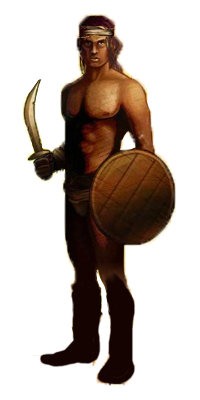
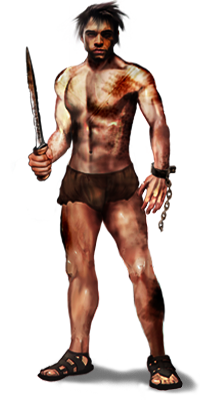
new char models

diff --git a/src/data/opponentData.js b/src/data/opponentData.js
@@ -5,7 +5,7 @@ const opponentData = [
     id: 0,
     styleName: 'opponent1',
     battleTitle: 'BATTLE 1',
-    name: 'Slave',
+    name: 'Deserter',
     level: 1,
     hp: 30,
     headAC: 8,
@@ -16,8 +16,8 @@ const opponentData = [
     legsModifier: 1.0,
     expVal: 50,
     maxDmg: 8,
-    dmgBonus: 1,
-    toHitBonus: 2,
+    dmgBonus: 2,
+    toHitBonus: 3,
     attackSpeed: 1000,
     baseAtkSpeed: 1000,
     weapons: 'Rusty Sword',
@@ -42,8 +42,8 @@ const opponentData = [
     legsModifier: 1.0,
     expVal: 175,
     maxDmg: 9,
-    dmgBonus: 1,
-    toHitBonus: 2,
+    dmgBonus: 2,
+    toHitBonus: 3,
     attackSpeed: 950,
     baseAtkSpeed: 950,
     weapons: 'Gladius',
@@ -66,9 +66,9 @@ const opponentData = [
     bodyModifier: 1.0,
     legsModifier: 1.0,
     expVal: 400,
-    maxDmg: 9,
-    dmgBonus: 2,
-    toHitBonus: 2,
+    maxDmg: 10,
+    dmgBonus: 3,
+    toHitBonus: 3,
     attackSpeed: 900,
     baseAtkSpeed: 900,
     weapons: 'Gladius',
@@ -91,9 +91,9 @@ const opponentData = [
     bodyModifier: 1.0,
     legsModifier: 1.0,
     expVal: 700,
-    maxDmg: 10,
-    dmgBonus: 3,
-    toHitBonus: 3,
+    maxDmg: 11,
+    dmgBonus: 4,
+    toHitBonus: 4,
     attackSpeed: 850,
     baseAtkSpeed: 850,
     weapons: 'Gladius',
@@ -106,19 +106,19 @@ const opponentData = [
     id: 4,
     styleName: 'opponent5',
     battleTitle: 'BATTLE 5',
-    name: 'Seasoned Fighter',
+    name: 'Deadly Murmillo',
     level: 5,
-    hp: 90,
-    headAC: 12,
-    bodyAC: 12,
-    legsAC: 12,
-    headModifier: 1.0,
-    bodyModifier: 1.0,
-    legsModifier: 1.0,
+    hp: 101,
+    headAC: 6,
+    bodyAC: 5,
+    legsAC: 11,
+    headModifier: 0.3,
+    bodyModifier: 0.2,
+    legsModifier: 1.3,
     expVal: 1100,
-    maxDmg: 10,
-    dmgBonus: 3,
-    toHitBonus: 4,
+    maxDmg: 12,
+    dmgBonus: 5,
+    toHitBonus: 2,
     attackSpeed: 800,
     baseAtkSpeed: 800,
     weapons: 'Gladius',
@@ -131,7 +131,7 @@ const opponentData = [
     id: 5,
     styleName: 'opponent6',
     battleTitle: 'BATTLE 6',
-    name: 'Deadly Murmillo',
+    name: 'Seasoned Champion',
     level: 6,
     hp: 99,
     headAC: 13,
@@ -141,9 +141,9 @@ const opponentData = [
     bodyModifier: 1.0,
     legsModifier: 1.0,
     expVal: 1400,
-    maxDmg: 10,
-    dmgBonus: 4,
-    toHitBonus: 4,
+    maxDmg: 11,
+    dmgBonus: 5,
+    toHitBonus: 5,
     attackSpeed: 750,
     baseAtkSpeed: 750,
     weapons: 'Gladius',
@@ -168,9 +168,9 @@ const opponentData = [
     bodyModifier: 1.0,
     legsModifier: 1.0,
     expVal: 1800,
-    maxDmg: 10,
-    dmgBonus: 5,
-    toHitBonus: 5,
+    maxDmg: 13,
+    dmgBonus: 4,
+    toHitBonus: 4,
     attackSpeed: 700,
     baseAtkSpeed: 700,
     weapons: 'Claws',
@@ -195,7 +195,7 @@ const opponentData = [
     bodyModifier: 1.0,
     legsModifier: 1.0,
     expVal: 2400,
-    maxDmg: 12,
+    maxDmg: 13,
     dmgBonus: 6,
     toHitBonus: 6,
     attackSpeed: 650,
@@ -222,7 +222,7 @@ const opponentData = [
     bodyModifier: 1.0,
     legsModifier: 1.0,
     expVal: 2900,
-    maxDmg: 12,
+    maxDmg: 13,
     dmgBonus: 7,
     toHitBonus: 7,
     attackSpeed: 600,

diff --git a/src/Arena.js b/src/Arena.js
@@ -419,14 +419,14 @@ export default function Arena() {
     let anim = document.createElement("img");
     //CRIT condition
     if (critRoll <= critChance) {
-      myHit = diceRoll(myGladiator.maxDmg) + dmgBonus;
+      myHit = Math.ceil((diceRoll(myGladiator.maxDmg) + dmgBonus)*opponent.bodyModifier);
       dispatch(critAttack(myHit));
       anim.className = "attack-animation";
       anim.src = require(`./assets/images/animations/crit2.gif`);
       displayDmgNumber(myHit, "crit-number");
       //HIT condition
     } else if (atkRoll + toHitBonus >= opponent.bodyAC) {
-      myHit = Math.ceil((diceRoll(myGladiator.maxDmg) + dmgBonus) * 0.4);
+      myHit = Math.ceil(((diceRoll(myGladiator.maxDmg) + dmgBonus) * 0.4)*opponent.bodyModifier);
       dispatch(attack(myHit));
       anim.className = "attack-animation";
       anim.src = require(`./assets/images/animations/atk3.gif`);
